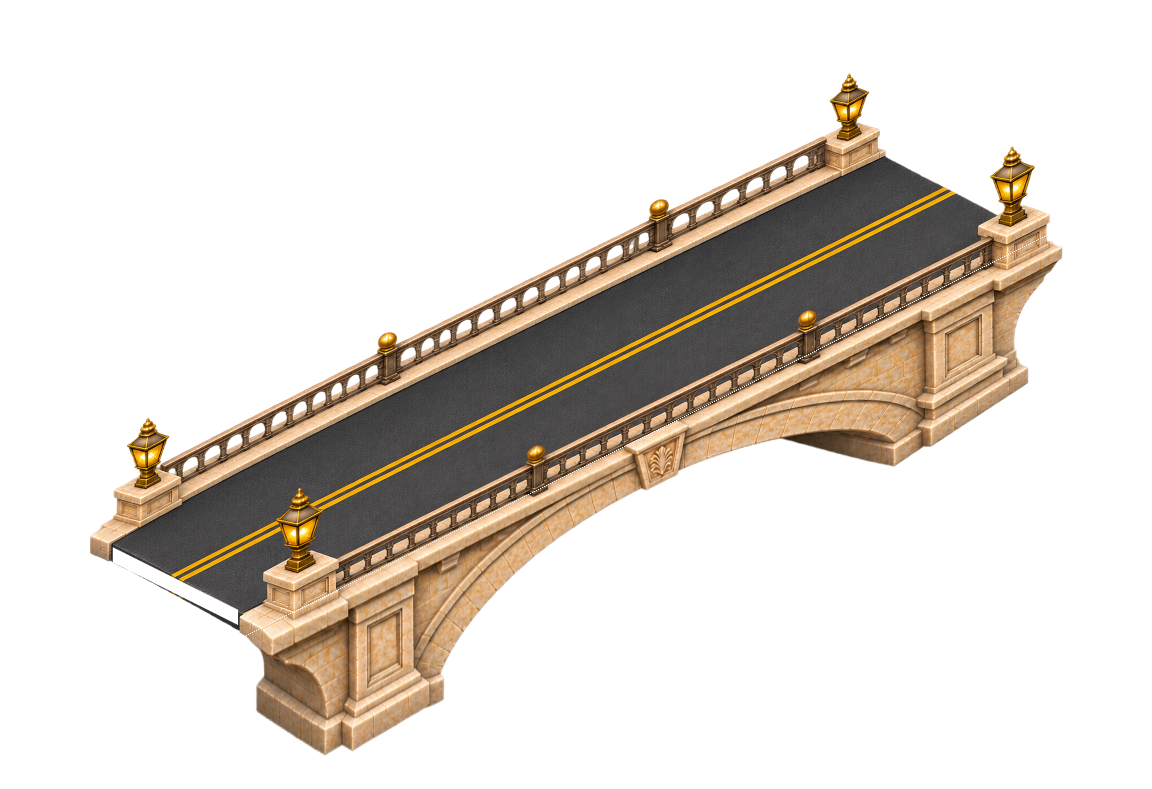
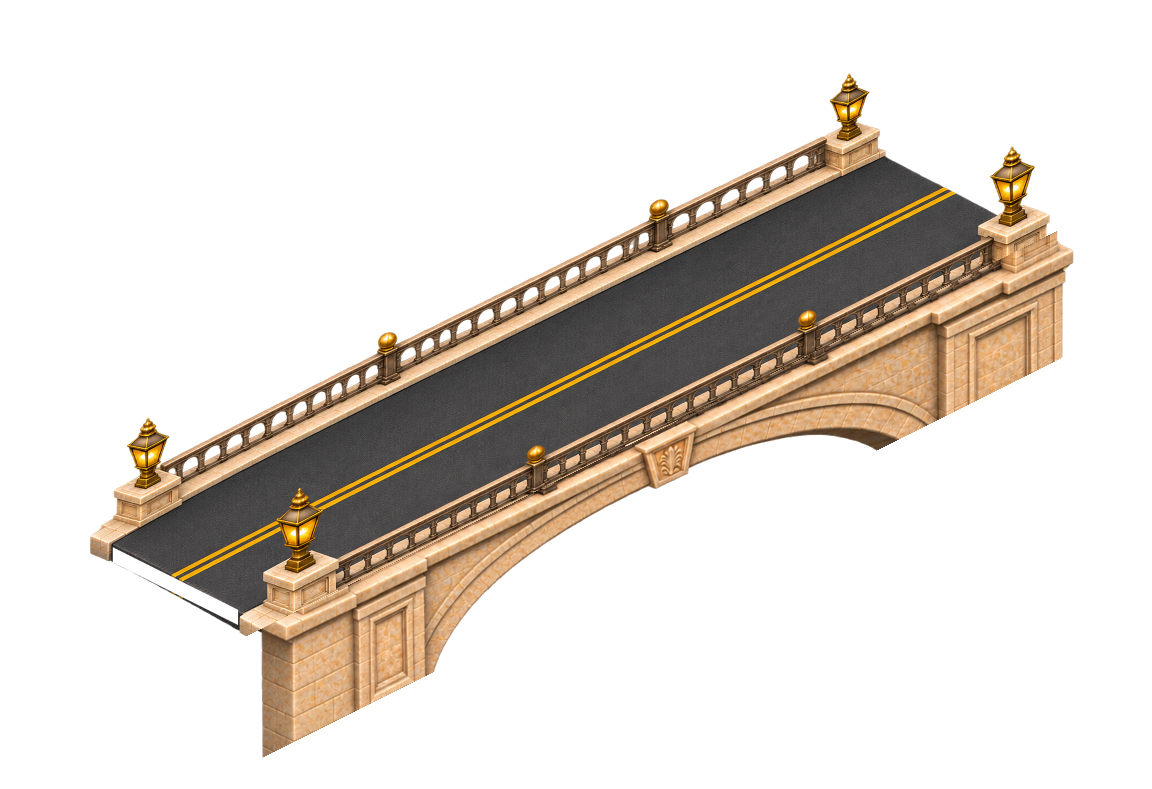
fix(city): shorten settlement links and refine bridge supports and zoom

Changed region(s): [[0.2188, 0.3042, 0.9375, 0.9734]]

diff --git a/src/renderers/city-organic-layout.ts b/src/renderers/city-organic-layout.ts
@@ -203,9 +203,7 @@ export function planOrganicCity(days: readonly DailyContribution[], threshold: n
     }
     roads.push({id:`organic-${area>0?'ring':'courtyard'}-${roads.length}`,lanes,...(area<0?{laneWidth:CITY_STREET_LANE_WIDTH}:{}),cornerRadius:members.length&&members.every(region=>region.milestone) ? .45 : lanes===8?2.4:1.2,closed:true,points:corners});
   }
-  const rings=roads.filter(route=>route.id.startsWith('organic-ring'));
-  // 连接路沿荒地向西接入最近片区；未相交的支路在城外共用一条纵向道路。
-  connectSettlements(rings,(horizontal,at,start,end,kind)=>road(horizontal,at,start,end,2,kind));
+  connectSettlements(roads,footprints,(horizontal,at,start,end,kind)=>road(horizontal,at,start,end,2,kind));
   for(const line of lines.values()){
     const merged:{start:number;end:number}[]=[];
     for(const span of line.spans.sort((a,b)=>a.start-b.start)){
@@ -378,37 +376,67 @@ function contains(points:readonly RoadPoint[],x:number,z:number):boolean {
   return inside;
 }
 
-/** 西向射线只接入首先遇到的外环，不穿过建筑；城外纵路将各分支连成一网。 */
-function connectSettlements(rings:readonly CityRoadRoute[],road:(horizontal:boolean,at:number,start:number,end:number,kind:'link'|'exit')=>void):void {
+/** 在闭环直道上选最近的可行接点；最小生成树连通片区，不再统一绕到西侧。 */
+function connectSettlements(boundaries:readonly CityRoadRoute[],footprints:readonly {left:number;right:number;top:number;bottom:number}[],road:(horizontal:boolean,at:number,start:number,end:number,kind:'link'|'exit')=>void):void {
+  const rings=boundaries.filter(ring=>ring.id.startsWith('organic-ring'));
   if(!rings.length)return;
-  const edges=rings.flatMap(ring=>planRoadGeometry(ring).straights.filter(({a,b})=>a[0]!==b[0]||a[1]!==b[1]).map(edge=>({...edge,ring})));
-  const vertical=edges.filter(({a,b})=>a[0]===b[0]), horizontal=edges.filter(({a,b})=>a[1]===b[1]);
-  const west=Math.min(...vertical.map(e=>e.a[0])),east=Math.max(...vertical.map(e=>e.a[0]));
-  const north=Math.min(...horizontal.map(e=>e.a[1])),south=Math.max(...horizontal.map(e=>e.a[1]));
-  const port=(edge:typeof edges[number])=>(edge.a[1]+edge.b[1])/2;
-  const terminals:{x:number;z:number}[]=[];
-  if(rings.length>1)for(const ring of rings){
-    const side=vertical.filter(e=>e.ring===ring).sort((a,b)=>a.a[0]-b.a[0]||Math.min(a.a[1],a.b[1])-Math.min(b.a[1],b.b[1]))[0];
-    const x=side.a[0],low=Math.min(side.a[1],side.b[1]),high=Math.max(side.a[1],side.b[1]);
-    const target=vertical.filter(e=>e.ring!==ring&&e.a[0]<x)
-      .map(e=>({edge:e,from:Math.max(low,Math.min(e.a[1],e.b[1])),to:Math.min(high,Math.max(e.a[1],e.b[1]))}))
-      .filter(e=>e.to>e.from).sort((a,b)=>b.edge.a[0]-a.edge.a[0])[0];
-    if(target)road(true,(target.from+target.to)/2,target.edge.a[0],x,'link');
-    else terminals.push({x,z:port(side)});
+  const area=(ring:CityRoadRoute)=>Math.abs(ring.points.reduce((sum,p,i)=>{const q=ring.points[(i+1)%ring.points.length];return sum+p[0]*q[1]-q[0]*p[1]},0));
+  const edges=boundaries.flatMap(ring=>{
+    // 庭院道路属于包围它的城区，庭院中的独立小片区可就近接到这里。
+    const owner=rings.indexOf(ring.id.startsWith('organic-ring')?ring:rings.filter(outer=>contains(outer.points,...ring.points[0])).sort((a,b)=>area(a)-area(b))[0]);
+    return planRoadGeometry(ring).straights.filter(({a,b})=>a[0]!==b[0]||a[1]!==b[1]).map(({a,b})=>{
+      const vertical=a[0]===b[0],low=Math.min(a[vertical?1:0],b[vertical?1:0]),high=Math.max(a[vertical?1:0],b[vertical?1:0]),inset=Math.min(.4,(high-low)/4);
+      return {a,b,owner,vertical,outer:ring.id.startsWith('organic-ring'),low:low+inset,high:high-inset};
+    });
+  });
+  const clear=(points:RoadPoint[],first:typeof edges[number],last:typeof edges[number])=>points.slice(1).every((end,i)=>{
+    let a=points[i],b=end;
+    // 庭院环路曾向年度轴线内移0.4格；接入路面中心这一步不能误判成穿越街区。
+    const length=Math.hypot(b[0]-a[0],b[1]-a[1]),dx=(b[0]-a[0])/length,dz=(b[1]-a[1])/length;
+    const reach=Math.min(.4,length/3);
+    if(i===0&&!first.outer)a=[a[0]+dx*reach,a[1]+dz*reach];
+    if(i===points.length-2&&!last.outer)b=[b[0]-dx*reach,b[1]-dz*reach];
+    return !footprints.some(r=>a[0]===b[0]
+      ?a[0]>r.left+1e-6&&a[0]<r.right-1e-6&&Math.max(a[1],b[1])>r.top+1e-6&&Math.min(a[1],b[1])<r.bottom-1e-6
+      :a[1]>r.top+1e-6&&a[1]<r.bottom-1e-6&&Math.max(a[0],b[0])>r.left+1e-6&&Math.min(a[0],b[0])<r.right-1e-6);
+  });
+  const candidates=new Map<string,{from:number;to:number;points:RoadPoint[];length:number}>();
+  const clamp=(value:number,low:number,high:number)=>Math.max(low,Math.min(high,value));
+  for(let i=0;i<edges.length;i++)for(let j=i+1;j<edges.length;j++){
+    const a=edges[i],b=edges[j];if(a.owner===b.owner)continue;
+    let points:RoadPoint[];
+    if(a.vertical===b.vertical){
+      const low=Math.max(a.low,b.low),high=Math.min(a.high,b.high);
+      const alongA=low<=high?(low+high)/2:clamp((b.low+b.high)/2,a.low,a.high),alongB=clamp(alongA,b.low,b.high);
+      const acrossA=a.a[a.vertical?0:1],acrossB=b.a[b.vertical?0:1],mid=(acrossA+acrossB)/2;
+      points=a.vertical?[[acrossA,alongA],[mid,alongA],[mid,alongB],[acrossB,alongB]]:[[alongA,acrossA],[alongA,mid],[alongB,mid],[alongB,acrossB]];
+    }else{
+      const vertical=a.vertical?a:b,horizontal=a.vertical?b:a;
+      const v:RoadPoint=[vertical.a[0],clamp(horizontal.a[1],vertical.low,vertical.high)],h:RoadPoint=[clamp(vertical.a[0],horizontal.low,horizontal.high),horizontal.a[1]];
+      points=[v,[h[0],v[1]],h];
+    }
+    // 归并共线和重复点，确保一个直连不会变成两个断开的半段。
+    points=points.filter((p,k)=>k===0||p[0]!==points[k-1][0]||p[1]!==points[k-1][1]);
+    points=points.filter((p,k)=>k===0||k===points.length-1||!((points[k-1][0]===p[0]&&p[0]===points[k+1][0])||(points[k-1][1]===p[1]&&p[1]===points[k+1][1])));
+    if(points.length<2||!clear(points,a.vertical===b.vertical||a.vertical?a:b,a.vertical===b.vertical||a.vertical?b:a))continue;
+    const length=points.slice(1).reduce((sum,p,k)=>sum+Math.abs(p[0]-points[k][0])+Math.abs(p[1]-points[k][1]),0);
+    const key=[a.owner,b.owner].sort((x,y)=>x-y).join(':'),previous=candidates.get(key);
+    if(!previous||length<previous.length-1e-6||Math.abs(length-previous.length)<1e-6&&points.length<previous.points.length)candidates.set(key,{from:a.owner,to:b.owner,points,length});
   }
-  if(terminals.length>1){
-    const spine=west-5;
-    for(const {x,z} of terminals)road(true,z,spine,x,'link');
-    road(false,spine,Math.min(...terminals.map(p=>p.z)),Math.max(...terminals.map(p=>p.z)),'link');
+  const parents=rings.map((_,i)=>i),root=(i:number):number=>parents[i]===i?i:parents[i]=root(parents[i]);
+  for(const link of [...candidates.values()].sort((a,b)=>a.length-b.length)){
+    const from=root(link.from),to=root(link.to);if(from===to)continue;
+    parents[from]=to;
+    link.points.slice(1).forEach((p,i)=>{const a=link.points[i];road(a[1]===p[1],a[1]===p[1]?a[1]:a[0],a[1]===p[1]?a[0]:a[1],a[1]===p[1]?p[0]:p[1],'link')});
   }
-  // 四向出口从全局最外沿出发，避免重新横穿内收后的荒地或其他街区。
-  for(const [x,reach] of [[west,west-12],[east,east+12]]){
-    const side=vertical.find(e=>e.a[0]===x)!;
-    road(true,port(side),x,reach,'exit');
+  // 四向出口仍从全局最外沿出发。
+  const outer=edges.filter(e=>e.outer);
+  const vertical=outer.filter(e=>e.vertical),horizontal=outer.filter(e=>!e.vertical);
+  for(const [side,sign]of [[vertical,-1],[vertical,1]] as const){
+    const edge=[...side].sort((a,b)=>sign*(b.a[0]-a.a[0]))[0],x=edge.a[0];road(true,(edge.low+edge.high)/2,x,x+sign*12,'exit');
   }
-  for(const [z,reach] of [[north,north-12],[south,south+12]]){
-    const side=horizontal.find(e=>e.a[1]===z)!;
-    road(false,(side.a[0]+side.b[0])/2,z,reach,'exit');
+  for(const sign of [-1,1]){
+    const edge=[...horizontal].sort((a,b)=>sign*(b.a[1]-a.a[1]))[0],z=edge.a[1];road(false,(edge.low+edge.high)/2,z,z+sign*12,'exit');
   }
 }
 

diff --git a/src/renderers/landscape.ts b/src/renderers/landscape.ts
@@ -27,10 +27,11 @@ export interface ContributionLandscape {
 /** 两种引擎共享播放/缩放/平移；缩放通知按面板的100%基准归一化。City不创建WebGL。 */
 export function createLandscape(host: HTMLElement, days: readonly DailyContribution[], onChange: (state: TimelineState, error?: string, detail?: string) => void, initialView: ViewMode = "city", assetBase = new URL(/* @vite-ignore */ "./assets/city/", import.meta.url).href, cityWonders = true, reservedYears?: readonly number[], onZoomChange?: (zoom: number) => void, namingOriginYear?: number): ContributionLandscape {
   const progressiveCity=initialView==="city"&&reservedYears!==undefined;
-  // 保留100%的取景基准，正式City初始显示150%；全景仍使用原始适配比例。
-  const zoomBase=progressiveCity?1.25:1;
+  // 原City的150%作为新100%；最低保留原80%，不再缩到大片填图。
+  const zoomBase=progressiveCity?1.875:initialView==="city"?1.5:1;
+  const minZoom=progressiveCity?1:.8;
   let currentDays=days,revealedDays=0,revealFrom=0,revealStarted=0;
-  const timeline=createTimeline(days.length,initialView==="city"?3000:8000),viewport:LandscapeViewport={width:1,height:1,dpr:Math.min(devicePixelRatio,1.5),zoom:progressiveCity?zoomBase*1.5:1,panX:0,panY:0,dark:false};
+  const timeline=createTimeline(days.length,initialView==="city"?3000:8000),viewport:LandscapeViewport={width:1,height:1,dpr:Math.min(devicePixelRatio,1.5),zoom:zoomBase,panX:0,panY:0,dark:false};
   let view=initialView,layer:LandscapeView|undefined,images:CityImages|undefined,assetPromise:Promise<CityImages>|undefined;
   let cityScene:CityScene|undefined;const assetAbort=new AbortController();
   let disposed=false,blocked=false,suspended=false,generation=0,raf=0,playing=!progressiveCity,anchored=false;
@@ -109,7 +110,7 @@ export function createLandscape(host: HTMLElement, days: readonly DailyContribut
   const down=(event:PointerEvent)=>{if(pointer)return;pointer={id:event.pointerId,x:event.clientX,y:event.clientY};host.setPointerCapture(event.pointerId);host.style.cursor="grabbing"};
   const move=(event:PointerEvent)=>{if(!pointer||pointer.id!==event.pointerId)return;viewport.panX+=event.clientX-pointer.x;viewport.panY+=event.clientY-pointer.y;pointer.x=event.clientX;pointer.y=event.clientY;schedule()};
   const up=(event:PointerEvent)=>{if(pointer?.id!==event.pointerId)return;pointer=undefined;host.style.cursor="grab"};
-  const zoomAt=(factor:number,x=0,y=0)=>{if(disposed)return;const next=Math.min(layer?.maxZoom?.(viewport)??5,Math.max(.35,viewport.zoom*factor)),ratio=next/viewport.zoom;viewport.panX=x-(x-viewport.panX)*ratio;viewport.panY=y-(y-viewport.panY)*ratio;viewport.zoom=next;onZoomChange?.(next/zoomBase);schedule()};
+  const zoomAt=(factor:number,x=0,y=0)=>{if(disposed)return;const next=Math.min(layer?.maxZoom?.(viewport)??5,Math.max(view==="city"?minZoom:.35,viewport.zoom*factor)),ratio=next/viewport.zoom;viewport.panX=x-(x-viewport.panX)*ratio;viewport.panY=y-(y-viewport.panY)*ratio;viewport.zoom=next;onZoomChange?.(next/zoomBase);schedule()};
   const wheel=(event:WheelEvent)=>{event.preventDefault();const rect=host.getBoundingClientRect();zoomAt(Math.exp(-event.deltaY*.0015),event.clientX-rect.left-viewport.width/2,event.clientY-rect.top-viewport.height/2)};
   // Only the stable, focused scene host owns arrows; inputs and browser shortcuts keep theirs.
   const keydown=(event:KeyboardEvent)=>{
@@ -138,7 +139,7 @@ export function createLandscape(host: HTMLElement, days: readonly DailyContribut
     setView(next){if(disposed||next===view||progressiveCity)return;view=next;void prepare()},
     zoomBy:zoomAt,
     zoomToMax(){zoomAt((layer?.maxZoom?.(viewport)??5)/viewport.zoom)},
-    resetView(){viewport.zoom=1;viewport.panX=viewport.panY=0;onZoomChange?.(1/zoomBase);schedule()},
+    resetView(){viewport.zoom=view==="city"?minZoom:1;viewport.panX=viewport.panY=0;onZoomChange?.(viewport.zoom/zoomBase);schedule()},
     pause,
     resume(){if(disposed||blocked||state().status==="completed")return;playing=true;anchored=false;schedule()},
     skip(){if(disposed)return;playing=false;if(progressiveCity){revealedDays=currentDays.length;labelCity()}else timeline.skip();schedule();notify()},

diff --git a/src/extension/city-hover.ts b/src/extension/city-hover.ts
@@ -37,7 +37,7 @@ function describeTime(days:readonly DailyContribution[],language:Language):strin
   return `${first.year} · `+entries.map(([monday,g])=>`${relative(monday)??(zh?`第${g.week}周`:`W${g.week}`)}${zh?'的':' · '}${weekdays(g.weekdays)}`).join(zh?'；':'; ');
 }
 
-function describeProjects(activities:readonly ProjectActivity[],language:Language,partial:boolean):{repository:string;text:string;example?:string}[] {
+function describeProjects(activities:readonly ProjectActivity[],language:Language,partial:boolean):{repository:string;text:string}[] {
   const zh=language==='zh-CN',groups=new Map<string,ProjectActivity[]>();
   for(const activity of activities){const key=activity.repository.toLowerCase(),list=groups.get(key)??[];if(!list.some(a=>a.kind===activity.kind&&a.url===activity.url&&a.date===activity.date))list.push(activity);groups.set(key,list)}
   return [...groups.values()].map(items=>{
@@ -49,7 +49,7 @@ function describeProjects(activities:readonly ProjectActivity[],language:Languag
     const amount=(value:number,incomplete=partial)=>`${incomplete?'≥':''}${value.toLocaleString(zh?'zh-CN':'en-US')}`;
     const metrics=[kind('commits')?(commits?`${amount(commits,partial||items.some(a=>a.kind==='commits'&&a.commits===undefined))}${zh?' 次提交':commits===1?' commit':' commits'}`:(zh?'提交代码（数量未列出）':'Code commits (count unavailable)')):'',
       prs?`${amount(prs)}${zh?' 个 PR':prs===1?' PR':' PRs'}`:'',reviews?(zh?`评审 ${amount(reviews)} 个 PR`:`Reviewed ${amount(reviews)} ${reviews===1?'PR':'PRs'}`):'',issues?`${amount(issues)}${zh?' 个 Issue':issues===1?' issue':' issues'}`:''].filter(Boolean);
-    return {repository:items[0].repository,text:metrics.join(' · '),example:items.find(a=>a.title)?.title,days,commits,links:items.length};
+    return {repository:items[0].repository,text:metrics.join(' · '),days,commits,links:items.length};
   }).sort((a,b)=>b.days-a.days||b.commits-a.commits||b.links-a.links||a.repository.localeCompare(b.repository));
 }
 
@@ -90,9 +90,8 @@ export function createCityHover(host:HTMLElement,options:{
     card.replaceChildren();const heading=document.createElement('div');heading.className='building-hover-time';heading.textContent=describeTime(days,language);card.append(heading);
     const projects=describeProjects(details.projects,language,partial);
     if(details.joinedGitHub){const milestone=document.createElement('p');milestone.className='building-hover-milestone';milestone.textContent=zh?'加入 GitHub · 开发旅程的起点':'Joined GitHub · The beginning of the journey';card.append(milestone)}
-    for(const [index,project]of projects.slice(0,2).entries()){
+    for(const project of projects.slice(0,2)){
       const row=document.createElement('p'),name=document.createElement('strong');name.textContent=project.repository;row.append(name,document.createElement('br'),document.createTextNode(project.text));card.append(row);
-      if(index===0&&project.example){const example=document.createElement('p');example.className='building-hover-example';example.textContent=`${zh?'例如：':'For example: '}${project.example}`;card.append(example)}
     }
     if(projects.length>2){const more=document.createElement('p');more.className='building-hover-note';more.textContent=zh?`另有 ${projects.length-2} 个项目`:`${projects.length-2} other projects`;card.append(more)}
     if(!projects.length&&!details.joinedGitHub){

diff --git a/src/extension/content.ts b/src/extension/content.ts
@@ -46,7 +46,6 @@ export function mountCityPanel(host: HTMLElement, toolbarHost: HTMLElement, sett
       .building-hover { position:absolute; z-index:4; pointer-events:none; width:max-content; max-width:min(340px,calc(100% - 16px)); overflow:hidden; margin:0; padding:11px 13px; border:1px solid var(--borderColor-default,#d1d9e0); border-radius:10px; background:color-mix(in srgb,var(--bgColor-default,#fff) 78%,transparent); backdrop-filter:blur(6px); box-shadow:0 6px 24px #0002; font-size:12px; line-height:1.65; overflow-wrap:anywhere; opacity:0; transition:opacity 90ms ease-out; }
       .building-hover[data-open] { opacity:1; transition-duration:120ms; }
       .building-hover-note { color:var(--fgColor-muted,#59636e); font-size:11px; }
-      .building-hover-example { color:var(--fgColor-muted,#59636e); font-size:11px; display:-webkit-box; -webkit-line-clamp:2; -webkit-box-orient:vertical; overflow:hidden; }
       .building-hover-milestone { font-weight:600; }
       @media (prefers-reduced-motion:reduce) { .building-hover { transition:none; } }
       .building-hover-time { margin-bottom:5px; color:var(--fgColor-muted,#59636e); font-size:11px; }

diff --git a/src/platform/github/project-details.ts b/src/platform/github/project-details.ts
@@ -7,7 +7,6 @@ export interface ProjectActivity {
   kind: 'commits' | 'pull-request' | 'review' | 'issue';
   url: string;
   commits?: number;
-  title?: string;
 }
 
 export interface DayActivities { projects:ProjectActivity[]; joinedGitHub:boolean }
@@ -47,8 +46,7 @@ export async function fetchProjectActivities(context: GitHubPageContext, date: s
           if(!Number.isSafeInteger(commits)||commits<0)throw new Error('提交数量无法确认');
         }
       }
-      const title=kind==='commits'?undefined:clean(anchor).replace(/^#\d+\s*/, '').slice(0,140)||undefined;
-      if(!activities.some(a=>a.kind===kind&&a.url===link.href))activities.push({date,repository:match[1],kind,url:link.href,...(commits===undefined?{}:{commits}),...(title?{title}:{})});
+      if(!activities.some(a=>a.kind===kind&&a.url===link.href))activities.push({date,repository:match[1],kind,url:link.href,...(commits===undefined?{}:{commits})});
     }
   }
   return {projects:activities,joinedGitHub};

diff --git a/docs/reports/CITY-SUMMARY-LINKS-BRIDGE-ZOOM.md b/docs/reports/CITY-SUMMARY-LINKS-BRIDGE-ZOOM.md
@@ -1,0 +1,63 @@
+# 悬停摘要、片区接路、石墩与缩放修正
+
+日期：2026-11-08。更新既有PR #70，基线76f6316；本轮不合入main或发布。真实GitHub效果由用户重载后验收，本报告中的浏览器证据为独立本地生产组件路径。
+
+## 变更与原因
+
+| 原表现 | 本轮实现 | 验收依据 |
+| --- | --- | --- |
+| 项目汇总下展示具体PR/Issue标题 | 取消标题字段解析、页内保留及示例DOM；保留时间规律、项目、提交/PR/评审/Issue数量 | 同一受控活动响应中故意提供具体标题，浮层与解析结果均不保留；数量不变 |
+| 不同片区统一向西接到一根城外纵路 | 从圆角后的直道选接点，比较可行正交连接；避开街区内部，按最小生成树连通片区 | 塔样本91.45→20.95格；斜向、庭院、三片区也连通 |
+| 桥下逐列拉伸，石墩与拱洞被扭曲 | 新精绘刚性石材下部、整体投影、共享水位裁切；原桥面像素保留 | 541,440上部像素差异0；生产河道135px/格近景检查 |
+| 默认150%，能缩到很小、只剩填图 | 原150%=新100%；原80%=最低约53%；全景按钮缩到下限并居中 | 滚轮、键盘、按钮、隐藏恢复与最大细节尺度检查 |
+
+连接仍使用X/Z方向道路，避免车辆朝向与道路不一致。候选考虑相交直道、平行直道及正交折线；避开圆角切点附近，闭环庭院归属外部城区，庭院年度轴线内移0.4格的接路可到实际路面中心。候选最短不等于任意障碍条件下的全局欧氏最短路；本轮不引入通用寻路器。保留年度共用路、四向出口、车道宽度、车辆/路口后续规划，沿用原地面缓存，在正式规划阶段完成，不作渲染后布局修补。
+
+## 环境与方法
+
+macOS本机，Node26.7、Vite8.3.5、TypeScript7.0.2、独立Chrome157 headless；1000×650 CSS画布，DPR1。`git archive 76f6316 src`导出基线，分别用Vite将相同临时入口打包，127.0.0.1临时HTTP提供生产模块与正式运行PNG；Chrome使用本次专属临时资料。没有访问已有Chrome资料、改Codex/浏览器设置、在GitHub页面注入脚本或读取用户凭证。首次驱动因相对素材base导致失败，改成绝对本地URL；ResizeObserver首次回调清除悬停由驱动等待后触发；输入边界按ISO周年筛选后完成矩阵。这些是驱动修正，不作为产品失败或通过的证据。
+
+必要命令：在本PR源码目录执行 `npm run build -- --outDir <本轮临时目录>/package/dist`（包含`npm run check`）；素材执行 `node scripts/bake-city-transport.mjs --outDir <本轮临时目录>/baked --canvasModule <临时安装的@napi-rs/canvas@0.1.80>/index.js`。未增加项目依赖或事后补单元测试。包装使用该临时package内的 `python3 scripts/package-city.py`，核对manifest、许可、版本、资源、ZIP完整性与SHA256。
+
+浏览器入口直接调用 `planOrganicCity(days,90,years,true,years[0],joinedOn)`、`loadCityImages`、`createCityView(...,0,createOrganicGround(plan))` 并绘制；贡献输入以UTC逐日生成、公历窗口内再筛选`isoWeekDate(date).year`属于years。每组核对总量、所有非零成员的数量与唯一覆盖；将实际roads的线段相交关系组成连通图。连接线与同轴季度街道可能被原有line map合并，不能仅按`organic-link`名称计数，所以长度统一包含`organic-link/exit`，减去不变的四向12格出口（48格）。三片区用实际非零地块矩形核对穿越，避免把原季度街道穿过街区包围盒误当成穿楼。
+
+可复现输入：
+
+- 塔：2009—2015，2009-09-18为1并作为joinedOn；2012起按连续日序`i%7<5`为30，其余0。
+- 斜向：2020—2022，2020-02-03至02-29、2022-10-03至10-31为12，其余0。
+- 庭院：2020—2022，除2021外均16；2021中03-10前、10-01后及06-16为16，其余0；06-16用作受控单日里程碑，检验庭院中的独立小片区，不是实际注册记录。
+- 三片区：2009—2012，2009-09-18为1并作为joinedOn；2010-09-01至11-19、2012-08-01至10-31为20，其余0。
+- 稠密：2006—2025所有日期30。
+- 跨河：2010—2015所有日期30。
+
+## 实际结果
+
+| 样本 | 日期数 / 总量 / 非零日期 | 连接长度基线→当前（格） | 道路连通分量 |
+| --- | --- | --- | --- |
+| 塔 | 2556 / 31291 / 1044 | 91.45→20.95 | 1 |
+| 斜向 | 1096 / 672 / 56 | 61.4→42.2 | 1 |
+| 庭院 | 1096 / 14256 / 891 | 25.15→2.55 | 1 |
+| 三片区 | 1460 / 3441 / 173 | 49.15→31.15 | 1 |
+| 二十年稠密 | 7301 / 219030 / 7301 | 0→0 | 1 |
+| 六年跨河 | 2188 / 65640 / 2188 | 0→0 | 1 |
+
+每组总量、非零成员数及唯一覆盖前后相同。塔、斜向、庭院、稠密、跨河的连接没有穿过活动区域包围盒。三片区有一条同轴连接与既有季度路合并，实际非零地块穿越0；最后专门运行该组确认。庭院首次比较得到11.95格，检查发现共享年度轴线在原布局内移0.4格，接到路面中心被障碍检测拒绝；只放行庭院接点的该段距离，复验2.55格且道路仍连通。
+
+一次规划时间样本：基线塔27.4ms、二十年95.2ms；新塔29.4ms、二十年98.7ms。单次冷启动计时不作为性能增减结论，不宣称FPS、功耗或驻留内存预算通过。六年跨河仍3桥，二十年9桥，无新增逐帧规划。
+
+悬停：unknown/omit受控HTML，2025-05-02与05-09每次6提交、同一PR、同一评审PR、同一Issue；保留“第18—19周，每周五”、tester/project、12次提交/1PR/评审1PR/1Issue，基线具体标题可见，当前不可见且项目对象无title字段；首次活动请求2、再次0。身份隔离、部分记录≥规则及原动画未改，不将该公开替身路径当作真实私有项目或登录MV3验收。
+
+缩放：初始通知1.5→1；最低API和滚轮均0.28→0.533333；最低处键盘+为0.666667；全景为0.533333，缩放一次翻倍后1.066667，隐藏/恢复保持1.066667。最大通知28.0069565→18.6713043，换回旧基准后物理尺度相同（原值/1.5）。正式City世界初始倍率仍1.875，最低从0.35提高到1.0；没有放大素材或改变合并地块。
+
+石桥：正式新源图1515×1038、1,300,747 bytes，运行仍1152×789、643,712 bytes，减少19,419 bytes；RGBA重新解码差异0。保留区541,440像素与原运行图差异0，桥下89,142像素变化；世界尺寸、车幅、桥高、引桥、两岸支撑锚点元数据完全相同。测试过的分支水线曾误切拱洞，已取消该断续裁切，最终近景为连续单拱和没入水面的直石墩。梁桥PNG未变。正式源图、完整提示与参数保留在docs/design/city-transport/v3/，测试图不保留。
+
+## 构建、dist与边界
+
+类型检查、构建、`git diff --check`及ZIP核验通过。content66.11kB/gzip21.12，landscape114.03kB/gzip35.12。版本0.1.1、manifest与权限不变；新增PNG数0。根目录在用dist的115份当前构建文件逐一匹配；更新content/landscape、石桥、两语言说明与引用新locale共享块的popup/options，其余既有未引用旧文件保留。
+
[4 lines of base64/hex data omitted]
+
+真实GitHub登录页面、用户原截图的具体数据、完整浏览器可见性矩阵、Edge及硬件预算尚未验收；未更改详情缓存身份协议、未增加持久化、轮询、Token或后端。用户在扩展管理页重新加载CodeYears、刷新GitHub后，检查缩放、塔连接、摘要与石墩。临时驱动、响应、截图、Chrome资料、Canvas依赖、构建及ZIP记录后删除，仅保留本报告、正式源图/运行资源及在用dist。

diff --git a/docs/PRODUCT.md b/docs/PRODUCT.md
@@ -1,8 +1,10 @@
 # 产品定义
 
+2026-11-08 补充：建筑浮层只展示时间规律、项目和数量汇总，不列具体PR/Issue标题。街区连接从真实直道接点选更短的可行正交路径，避免统一向西绕行；保持年度共用路和四向出口。石桥改用刚性竖直石墩及入水裁切，保留桥面。City旧150%为新100%，旧80%为最低约53%，默认视野与最大细节尺度不变，全景按钮缩到下限并居中。实测与边界见[修正报告](reports/CITY-SUMMARY-LINKS-BRIDGE-ZOOM.md)。
+
 2026-11-08 用户确认轮廓调整：周/年保留时间定位与道路骨架，外缘采用连续活动地块的包围盒适度平滑内收，内部零星空白保留庭院；年度连接走廊和共用道路轴线不拆分。独立注册塔地基1×1，不沿整周铺地。稀疏、稠密及跨河六年比较的事实和范围见[本轮报告](reports/CITY-HOVER-DETAILS-AND-JOINING.md)。
 
-2026-11-08 当前实现：用户已确认原版本项目和高光可用；本轮补全匿名公开详情页内缓存、去掉缓存命中时的空加载闪烁，以已取得的提交/PR/评审/Issue数量及一条已有PR/Issue标题解释活动。浮层78%底色、160ms固定角点揭开内容，可向左/右、上/下扩展；注册单日明确标记为里程碑，渲染一格占地的纪念高塔，非额外代码贡献。2009首周因缺少2008源日产生的空占位已去除，不填零或修改原图数量。详见[本轮报告](reports/CITY-HOVER-DETAILS-AND-JOINING.md)，用户真实页面效果待重载验收。
+2026-11-08 当前实现：用户已确认原版本项目和高光可用；本轮补全匿名公开详情页内缓存、去掉缓存命中时的空加载闪烁，以已取得的提交/PR/评审/Issue数量概括活动，不展示具体PR/Issue标题。浮层78%底色、160ms固定角点揭开内容，可向左/右、上/下扩展；注册单日明确标记为里程碑，渲染一格占地的纪念高塔，非额外代码贡献。2009首周因缺少2008源日产生的空占位已去除，不填零或修改原图数量。详见[本轮报告](reports/CITY-HOVER-DETAILS-AND-JOINING.md)，用户真实页面效果待重载验收。
 
 2026-11-08 已确认的后续设计（尚未实现）：以当前地图范围是否包含注册塔作为“首个仓库”的前提，不随缩放/平移改变。包含注册塔时，把之后识别到的第一个建库事件称为首个仓库；同日注册/首库共用注册塔、浮层补充说明，不同日再用独立特殊楼型。不包含注册塔时只称新仓库，不推断首个。每个后续新仓库是否使用项目工坊楼型、以及独立加入组织事件的特殊楼型仍在评估，没有据此扫描全部历史或扩充本轮事件解析。
 

diff --git a/docs/DATA_AND_PRIVACY.md b/docs/DATA_AND_PRIVACY.md
@@ -1,6 +1,6 @@
 # 数据与隐私
 
-2026-11-08 当前悬停/注册实现：匿名omit请求的公开详情也在独立public作用域作五分钟页内复用，不能复用登录详情；已确认身份的缓存命中仍须联网确认访问者。缓存命中不先呈现空的加载概括。数量仅汇总本建筑成员日已取得的提交记录及去重PR/评审/Issue链接，未取得完整成员日或部分提交数量不可读时用≥或保留数量缺失，不补零、不当作完整总量；可读同一活动HTML中的一条PR/Issue标题解释工作，不读取正文或展开仓库。
+2026-11-08 当前悬停/注册实现：匿名omit请求的公开详情也在独立public作用域作五分钟页内复用，不能复用登录详情；已确认身份的缓存命中仍须联网确认访问者。缓存命中不先呈现空的加载概括。数量仅汇总本建筑成员日已取得的提交记录及去重PR/评审/Issue链接，未取得完整成员日或部分提交数量不可读时用≥或保留数量缺失，不补零、不当作完整总量；只展示汇总，不解析或缓存PR/Issue标题，不读取正文或展开仓库。
 
 当所选范围含主页最早可用年份，最多额外检查该年首个非零日期；只有单日标题匹配且TimelineItem明确写Joined GitHub才标记注册里程碑，并在正式地块规划/素材选择阶段生成1×1纪念塔。该单日结果和悬停共用页内缓存，身份检查/取消协议相同；读取失败保持原有城市，不推断注册。2009公开样本中365日仅9月18日为1、事件为Joined GitHub；另一个空街区来自ISO周年跨入2008的缺失日期被误保留为占位，已改为只有整周未提供时才预留。没有填补缺日或改变原始每日数。真实当前登录效果待重载验收，详见[本轮报告](reports/CITY-HOVER-DETAILS-AND-JOINING.md)。以下历史段落中“unknown一律不缓存详情”由本段取代。
 

diff --git a/docs/design/city-transport/v3/PROMPTS.md b/docs/design/city-transport/v3/PROMPTS.md
@@ -1,0 +1,7 @@
+# 石墩编辑提示
+
+2026-11-08，内置imagegen，transparent_background=true；参照 `public/assets/city-runtime/transport-bridge-stone.png` 的第二版（Git 76f6316）。输出 exec-33b496cf-2356-495f-8ca2-854622c5ea9e.png，正式纳入 bridge-stone-supports.png。
+
+Use case: precise-object-edit. Asset: small isometric city-game sandstone single-arch bridge sprite on true transparent background. Edit only the masonry BELOW the front-side deck fascia. Keep the exact road deck, double yellow lines, railings, lamps, deck outline, orientation, and scale unchanged. Preserve the existing 2:1 isometric projection (long deck edge slopes upward-right at 1 vertical per 2 horizontal; transverse edges slope downward-right at 1 per 2). Correct the two stone abutments: straight vertical supports, matching geometry in parallel projection (no shrinking with distance), their corresponding horizontal stone courses and footing edges must run parallel to the same deck axes. These are upright masonry pillars that descend vertically into water; extend both pillars downward by about 80 pixels BELOW their present bases, ending in plain vertical shaft with no exposed wide horizontal platform, no floating shoe pedestal, no horizontal underside. One clean structurally plausible arch opening between the upright abutments, with consistent curved intrados thickness, open transparent arch interior. Fine sandstone texture and engraved panels like original, coherent light upper left. No water, no scenery, no ground plane, no shadows outside sprite, no text, no perspective convergence. Preserve transparent padding and the entire bridge, no cropping.
+
+生成图的桥面并非逐像素相同，因此制作脚本只采用其下部石材结构，原桥面保持原像素；实际标定与水线裁切见 calibration.json。只保留正式源图；中途裁切测试不作为产品素材。

diff --git a/docs/PERFORMANCE.md b/docs/PERFORMANCE.md
@@ -1,5 +1,7 @@
 # 性能约束与验证
 
+2026-11-08 连接与缩放：街区接点、避让和最小生成树只在原场景规划阶段执行，不在渲染后改布局；沿用原静态地面缓存。新石墩离线合成/裁水线，运行尺寸仍1152×789，PNG减少19,419 bytes，不新增素材或逐帧几何操作。City最低取景提高、150%改标100%，实际最大细节尺度保持。六组本地浏览器贡献守恒与20年一次规划计时见[修正报告](reports/CITY-SUMMARY-LINKS-BRIDGE-ZOOM.md)，不推导FPS、内存或功耗收益。
+
 2026-11-08 轮廓：活动地块包围盒、庭院保留、年度共用走廊与季度接入均在原场景规划阶段完成，不在绘制后修补布局。注册塔只铺1×1基座；普通稀疏样本深度7→5，稠密样本保持7，共用年度主路及季度穿越数未变。沿用一次地面缓存和单帧绘制；总量/非零日期覆盖与实际800×500浏览器路径见[报告](reports/CITY-HOVER-DETAILS-AND-JOINING.md)，不以面积下降推导FPS或内存收益。
 
 2026-11-08 悬停细节：缓存复用不再闪现空加载概括，匿名公开结果也按独立作用域复用；正式浏览器矩阵中二次悬停活动请求为0，已登录场景仍有实时身份GET。浮层保持同一角点，以160ms clip-path揭开新增区域，不逐帧测量/改width或height，也不请求城市重绘；减少动态效果时不执行该动画。注册塔运行图123×384 RGBA、75,521 bytes，仅在单日事件确认为Joined GitHub后按需解码，普通预滤波/命中/高光/销毁共用。最早年份最多增加一条单日活动查询，不逐日扫描历史。实际矩阵与限制见[报告](reports/CITY-HOVER-DETAILS-AND-JOINING.md)，不是全设备内存/功耗预算通过。

diff --git a/docs/design/city-transport/v3/README.md b/docs/design/city-transport/v3/README.md
@@ -1,0 +1,9 @@
+# 石拱桥下部结构修正
+
+2026-11-08，用户指出单拱桥的桥墩透视错误，缺少竖直支柱没入水中的感觉。第二版制作流程在桥面标定后按列伸缩下部，近远支撑的比例不同，拱洞和石缝也随之变形。本版不改变桥面和岸路布局。
+
+使用内置 imagegen，以第二版运行图为参照定向生成刚性石墩和单拱。正式源图 `bridge-stone-supports.png` 为1515×1038 RGBA、1,300,747 bytes；完整提示见 [PROMPTS.md](PROMPTS.md)，不是人工绘制或第三方下载。原始第二版源图保留。
+
+制作继续使用 `scripts/bake-city-transport.mjs --outDir <临时目录>/baked --canvasModule <已有Canvas模块>/index.js`。新图只作保持竖线的整体仿射投影，与原有桥面端点对齐；原图前侧桥面以下才替换为新石材结构。墩体按共享河面水位裁切，不伸缩各列。运行仍只解码PNG，不增加逐帧裁切、资源数量或模型变体。
+
+运行图仍为1152×789、643,712 bytes，比第二版减少19,419 bytes。541,440个桥面及上部像素与原运行图逐像素相同；桥下89,142个像素发生变化。世界宽深、车幅、桥面高度、引桥端点和两岸锚点不变，梁桥未替换。PNG重新解码RGBA差异0。生产河道近景已检查；真实GitHub地图效果由用户重载后验收，不将本地样本当作真实会话通过。

diff --git a/ASSETS.md b/ASSETS.md
@@ -27,6 +27,10 @@
 
 新增内置imagegen生成的加入GitHub纪念高塔，1×1占地，运行PNG为123×384透明RGBA、75,521 bytes；正式运行目录由97张增为98张。源图、完整生成/透明清理提示与标定保留在[素材记录](docs/design/github-joining-tower/README.md)，大尺寸源图不进入发行包。沿用按需解码及既有命中/预滤波/销毁，不在浏览器内生成图片。图中GitHub/Octocat标识不意味着获得其品牌的独立复用授权，位图分发仍沿用本文件的边界。
 
+## 2026-11-08 石墩透视修正
+
+石拱桥下部改用内置imagegen定向编辑的刚性石墩，取消逐列伸缩，按共享水位裁去入水部分。桥面保留原像素，运行图仍1152×789、643,712 bytes，减少19,419 bytes，不增加PNG数量；梁桥不变。新源图、提示和标定见[第三版记录](docs/design/city-transport/v3/README.md)，源图不进入发行包。
+
 ## 依赖
 
 随包代码的第三方许可见 `THIRD_PARTY_NOTICES.md`。构建工具及类型依赖只用于开发，不把其整个 `node_modules/` 放入发行包。当前构建仍保留暂停的 Terrain/Three.js 分包，因此保留相应许可声明；首发入口只有 City。
